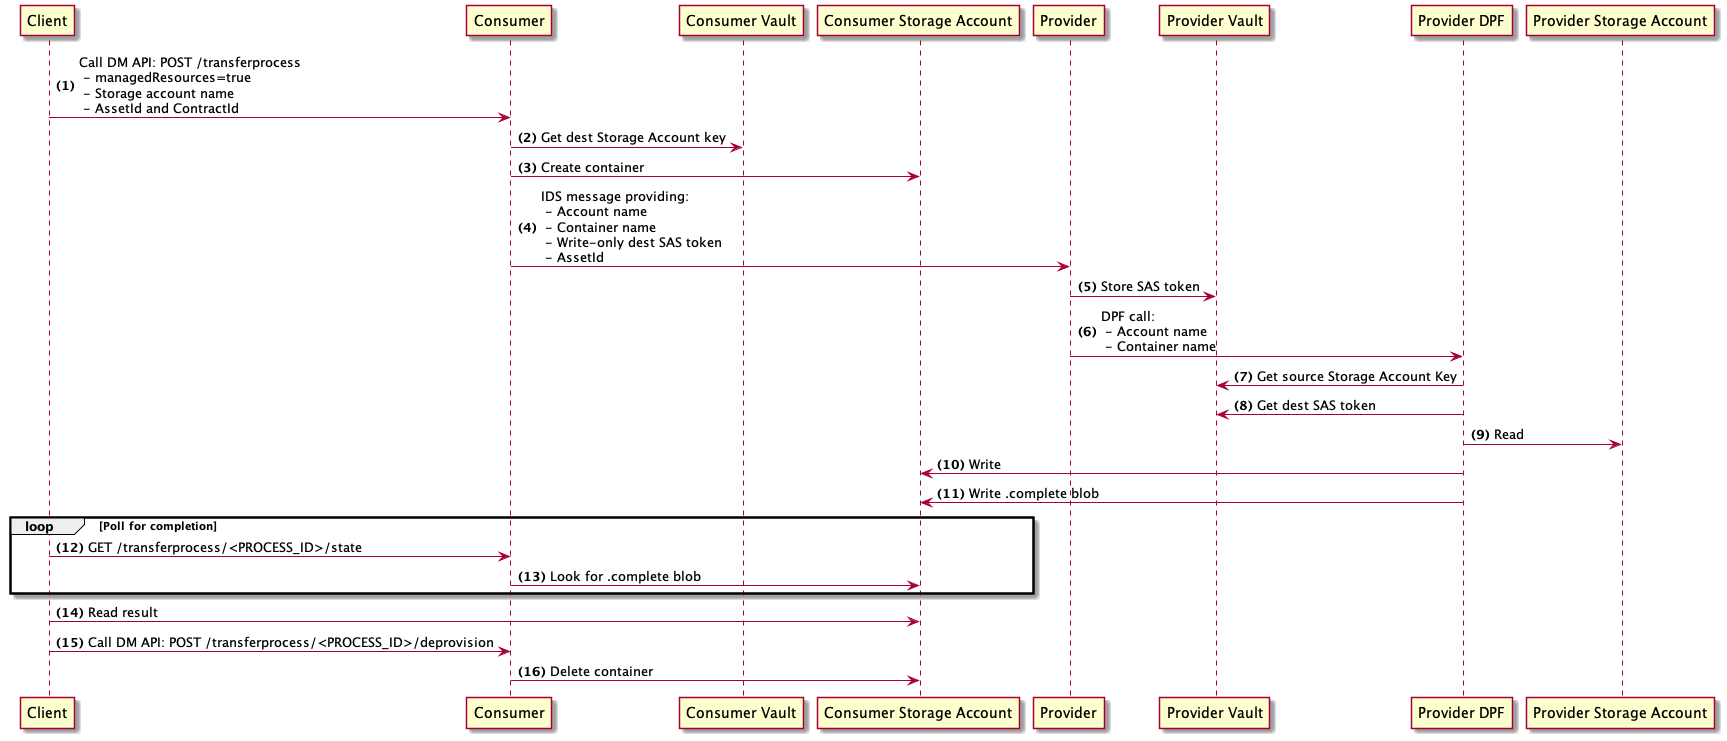
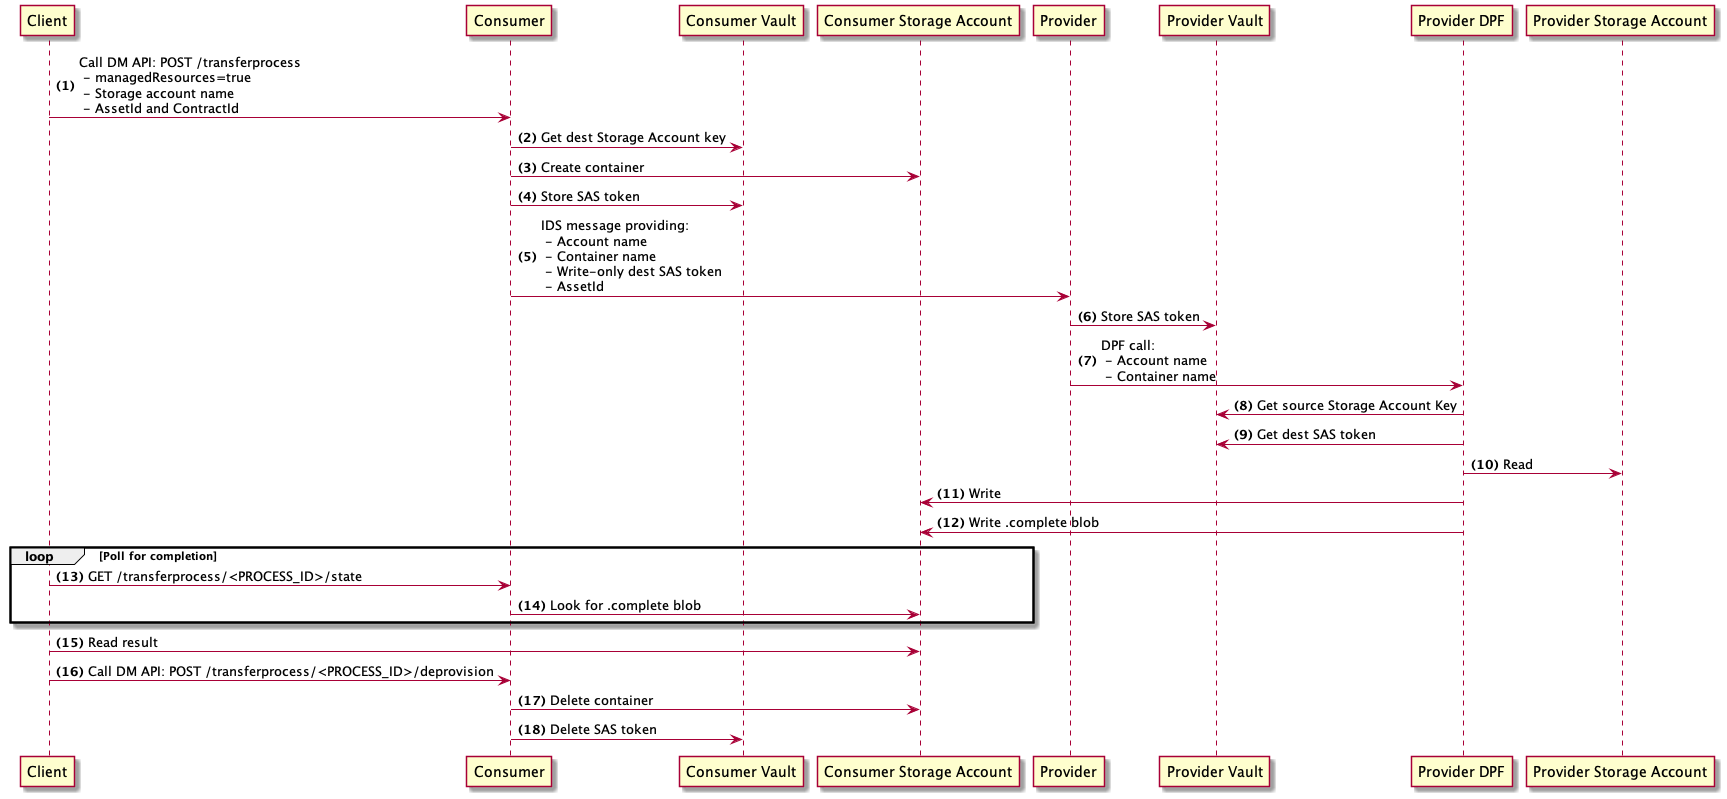
Added storage and deletion of sas token in the puml.

diff --git a/docs/developer/decision-records/2022-04-21-dpf-blob-data-transfer/README.md b/docs/developer/decision-records/2022-04-21-dpf-blob-data-transfer/README.md
@@ -29,18 +29,20 @@ The sequence starts from the client triggering the transfer on the consumer side
 2. Consumer gets the destination storage account access key in its Vault.  
 3. Consumer creates a container where the Provider DPF may write blobs. The container is created only if the client specifies `managedResources=true`.
    The [ObjectStorageProvisioner](../../../../extensions/azure/blobstorage/blob-provision/src/main/java/org/eclipse/dataspaceconnector/provision/azure/blob/ObjectStorageProvisioner.java) is responsible for provisioning the container and for generating a SAS token to access the container. 
-   To generate a [SAS token](https://docs.microsoft.com/en-us/azure/storage/common/storage-sas-overview), a storage account key is needed. This storage account key should be stored and retrieved in the Consumer Vault.  
-4. Consumer sends an IDS message to the Provider, containing the information needed to transfer data to the destination container, including the asset id, the destination blob account and container name and the SAS token needed to write a blob to the container.  
-5. Provider stores the SAS token in its Vault (rather than in the request to DPF, so that the latter may be persisted in a future implementation without containing secrets).
-6. Provider initiates the blob transfer on the Provider DPF. The Provider DPF can be embedded or run in a separated runtime. If it runs on a separated runtime, the Provider initiates the transfer via an HTTP request.  
-7. The Provider DPF gets the source storage account access key in the Provider Vault.  
-8. The Provider DPF gets the SAS token needed to write the blob to the consumer blob container.  
-9. The Provider DPF reads the data that needs to be transfered. The [AzureStorageDataSource](../../../../extensions/azure/data-plane/storage/src/main/java/org/eclipse/dataspaceconnector/azure/dataplane/azurestorage/pipeline/AzureStorageDataSource.java) provides the source data stream.  
-10. The Provider DPF writes the data to the destination blob so that the consumer can access the data.
+   To generate a [SAS token](https://docs.microsoft.com/en-us/azure/storage/common/storage-sas-overview), a storage account key is needed. This storage account key should be stored and retrieved in the Consumer Vault.
+4. Consumer stores the SAS token in its Vault.
+5. Consumer sends an IDS message to the Provider, containing the information needed to transfer data to the destination container, including the asset id, the destination blob account and container name and the SAS token needed to write a blob to the container.  
+6. Provider stores the SAS token in its Vault (rather than in the request to DPF, so that the latter may be persisted in a future implementation without containing secrets).
+7. Provider initiates the blob transfer on the Provider DPF. The Provider DPF can be embedded or run in a separated runtime. If it runs on a separated runtime, the Provider initiates the transfer via an HTTP request.  
+8. The Provider DPF gets the source storage account access key in the Provider Vault.  
+9. The Provider DPF gets the SAS token needed to write the blob to the consumer blob container.  
+10. The Provider DPF reads the data that needs to be transfered. The [AzureStorageDataSource](../../../../extensions/azure/data-plane/storage/src/main/java/org/eclipse/dataspaceconnector/azure/dataplane/azurestorage/pipeline/AzureStorageDataSource.java) provides the source data stream.  
+11. The Provider DPF writes the data to the destination blob so that the consumer can access the data.
 The [AzureStorageDataSink](../../../../extensions/azure/data-plane/storage/src/main/java/org/eclipse/dataspaceconnector/azure/dataplane/azurestorage/pipeline/AzureStorageDataSink.java) transfers the data to the blob destination.
-11. When the transfer is finished, the Provider DPF writes a blob called `.complete`.
-12. In the meantime, the client polls the transfer status regularly on the consumer endpoint `/transferprocess/<PROCESS_ID>/state`.  
-13. To determine if the transfer is completed, the consumer regularly checks if a blob named `.complete` exists in the container.  
-14. When the transfer is finished, the client can read the blob.  
-15. Then, the client can call the Data Management API to destroy the data.  
-16. Consumer deletes the container containing the blob and the SAS token. The [ObjectStorageProvisioner](../../../../extensions/azure/blobstorage/blob-provision/src/main/java/org/eclipse/dataspaceconnector/provision/azure/blob/ObjectStorageProvisioner.java) is responsible for deprovisioning the container.
+12. When the transfer is finished, the Provider DPF writes a blob called `.complete`.
+13. In the meantime, the client polls the transfer status regularly on the consumer endpoint `/transferprocess/<PROCESS_ID>/state`.  
+14. To determine if the transfer is completed, the consumer regularly checks if a blob named `.complete` exists in the container.  
+15. When the transfer is finished, the client can read the blob.  
+16. Then, the client can call the Data Management API to destroy the data.  
+17. Consumer deletes the container containing the blob. The [ObjectStorageProvisioner](../../../../extensions/azure/blobstorage/blob-provision/src/main/java/org/eclipse/dataspaceconnector/provision/azure/blob/ObjectStorageProvisioner.java) is responsible for deprovisioning the container.
+18. Consumer deletes the SAS token in the Vault. The [ObjectStorageProvisioner](../../../../extensions/azure/blobstorage/blob-provision/src/main/java/org/eclipse/dataspaceconnector/provision/azure/blob/ObjectStorageProvisioner.java) is responsible for deprovisioning the SAS token.
